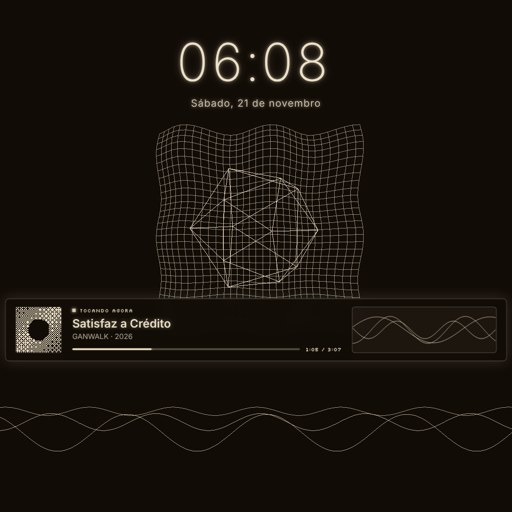
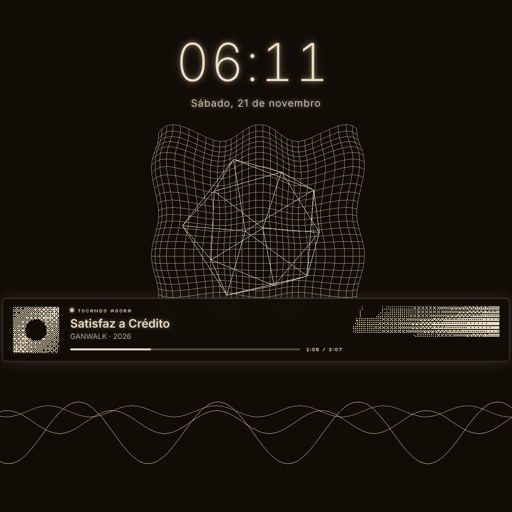
Troca as ondas do reprodutor por barras de espectro em dither
Claude-Session: https://claude.ai/code/session_01TWsJcmT3pL997o7ygjqKUk

diff --git a/wallpaper-exp1/index.html b/wallpaper-exp1/index.html
@@ -67,7 +67,7 @@
     /* --- TOCANDO AGORA ---
        Mesma linguagem do painel de controles da Exp I no site: fundo
        --control-bg, borda fina, brilho difuso, rótulos em Silkscreen,
-       trilho de 4px e o mini canvas das três ondas. Desenhado a 1920px
+       trilho de 4px e um espectro em barras com dither. Desenhado a 1920px
        de largura e escalado pela tela (--np-scale). */
     @font-face {
         font-family: 'Silkscreen';
@@ -79,7 +79,7 @@
     #now-playing {
         position: absolute; left: 50%; top: 50%; width: 1040px;
         transform: translate(-50%, -50%) scale(calc(var(--np-scale) * var(--np-pulse)));
-        /* Horizontal: capa | informações | as três ondas, numa linha só. */
+        /* Horizontal: capa | informações | barras do espectro no canto superior direito. */
         display: grid; grid-template-columns: 96px 1fr 300px; column-gap: 22px; align-items: center;
         padding: 16px 20px; border-radius: 8px;
         background: var(--control-bg); border: 1px solid var(--border-color);
@@ -113,11 +113,13 @@
     #np-track { flex: 1; height: 4px; border-radius: 2px; background: var(--border-color); position: relative; overflow: hidden; }
     #np-fill { position: absolute; left: 0; top: 0; bottom: 0; width: 0; background: var(--highlight-color); box-shadow: 0 0 6px var(--highlight-color); }
     #np-time { font-family: 'Silkscreen', monospace; font-size: 11px; white-space: nowrap; }
-    #np-mini {
-        height: 96px; border-radius: 6px; overflow: hidden;
-        background: rgba(var(--highlight-rgb), 0.05); border: 1px solid var(--border-color);
+    /* Barras do espectro: soltas no canto superior direito do próprio
+       reprodutor (sem caixa), crescendo da direita para a esquerda. Canvas
+       em meia resolução ampliado sem suavização, para o dither ficar nítido. */
+    #np-bars {
+        width: 300px; height: 64px; align-self: start; justify-self: end; display: block;
+        image-rendering: pixelated; image-rendering: crisp-edges;
     }
-    #np-mini canvas { width: 100%; height: 100%; display: block; }
 
     /* --- RELÓGIO E DATA --- */
     @font-face {
@@ -179,7 +181,7 @@
                 <div id="np-artist"></div>
                 <div id="np-progress"><div id="np-track"><div id="np-fill"></div></div><span id="np-time"></span></div>
             </div>
-            <div id="np-mini"><canvas id="np-mini-canvas"></canvas></div>
+            <canvas id="np-bars" width="150" height="32"></canvas>
         </div>
     </div>
     <canvas id="canvas"></canvas>
@@ -260,6 +262,8 @@ const Wallpaper = {
             const v = Math.min(1.5, (arr[i] + arr[i + 64]) * 0.5);
             if (i < 7) b += v; else if (i < 26) m += v; else h += v;
         }
+        if (!this.spectrum) this.spectrum = new Float32Array(64);
+        for (let i = 0; i < 64; i++) this.spectrum[i] = Math.min(1.5, (arr[i] + arr[i + 64]) * 0.5);
         this.rawBands.b = b / 7;
         this.rawBands.m = m / 19;
         this.rawBands.h = h / 38;
@@ -871,8 +875,10 @@ const DitherWave = {
             ctx.imageSmoothingEnabled = false;
             ctx.drawImage(art, ar.left * sx, ar.top * sx, ar.width * sx, ar.height * sx);
             ctx.imageSmoothingEnabled = true;
-            const mini = document.getElementById('np-mini-canvas'), mr = mini.getBoundingClientRect();
-            ctx.drawImage(mini, mr.left * sx, mr.top * sx, mr.width * sx, mr.height * sx);
+            const bars = document.getElementById('np-bars'), br = bars.getBoundingClientRect();
+            ctx.imageSmoothingEnabled = false;
+            ctx.drawImage(bars, br.left * sx, br.top * sx, br.width * sx, br.height * sx);
+            ctx.imageSmoothingEnabled = true;
             const label = document.getElementById('np-status');
             drawText(label, label.textContent.toUpperCase(), 0.9, 'left');
             for (const id of ['np-title', 'np-artist', 'np-time']) {
@@ -1045,7 +1051,7 @@ const DitherFade = {
  * no controle de mídia do Windows). Enquanto ela toca, a cada pulso de
  * dither o "GANWALK" vira o reprodutor logo antes da onda sair do
  * icosaedro, e volta logo depois que ela passa. O reprodutor tem capa,
- * título, artista, progresso e as três ondas do mini canvas da Exp I.
+ * título, artista, progresso e um espectro em barras com dither.
  * Música nova (ou o começo de uma) também dispara um pulso.
  *
  * Toda troca (texto ↔ reprodutor, música nova, pausa) passa pelo DitherFade.
@@ -1220,7 +1226,7 @@ const NowPlaying = {
         }
 
         this.drawArt();
-        this.drawMini(b, m, h, t, dir);
+        this.drawBars(t);
     },
 
     // Capa com o mesmo motor do portfólio (ditherFrame): recorte object-cover,
@@ -1264,28 +1270,69 @@ const NowPlaying = {
         ctx.putImageData(image, 0, 0);
     },
 
-    // As três ondas do mini canvas da Exp I (App1.drawMiniCanvas no site).
-    drawMini(b, m, h, time, dir) {
-        const mc = document.getElementById('np-mini-canvas');
-        const pw = mc.parentElement.clientWidth, ph = mc.parentElement.clientHeight;
-        if (mc.width !== pw || mc.height !== ph) { mc.width = pw; mc.height = ph; }
-        const ctx = mc.getContext('2d'), w = mc.width, hC = mc.height;
-        const fx = Wallpaper.fx, bg = Wallpaper.bgThree;
-        ctx.clearRect(0, 0, w, hC);
-        ctx.fillStyle = `rgba(${bg.r * 255},${bg.g * 255},${bg.b * 255},${0.02 + 0.98 * Math.pow(1.0 - fx.reverb, 3)})`;
-        const col = '#' + Wallpaper.fgThree.getHexString();
-        const alpha = Math.max(0, ((100 - fx.filter) / 100)) * 0.8;
-        ctx.lineWidth = 1 + fx.overdrive * 2;
-        const vShift = Math.sin(time * 2) * fx.chorus * 10;
-        const draw = (amp, freq, spd, yOff) => {
-            ctx.beginPath(); ctx.strokeStyle = col; ctx.globalAlpha = alpha;
-            for (let x = 0; x < w; x++) {
-                const y = yOff + Math.sin(((x / w - 0.5) * 4) * freq + time * spd * dir) * (amp * 20 * hC / 30) + vShift + (Math.random() - 0.5) * fx.overdrive * 3;
-                if (x === 0) ctx.moveTo(x, y); else ctx.lineTo(x, y);
+    // ESPECTRO EM BARRAS
+    // 8 barras (do grave, em cima, ao agudo, embaixo) que crescem da direita
+    // para a esquerda. O preenchimento é dither ordenado com a matriz de Bayer
+    // do portfólio: cheio junto à borda direita e cada vez mais ralo até a
+    // ponta, com a fase da matriz trocando a cada 175 ms (a cintilação) e uma
+    // leve ondulação na densidade, que faz o retículo "respirar".
+    BAR_EDGES: [0, 2, 4, 7, 11, 17, 26, 38, 64], // faixas das 64 bandas do Wallpaper Engine
+    barLevels: new Float32Array(8),
+    barPeaks: new Float32Array(8).fill(0.05),
+    barHold: new Float32Array(8),
+
+    drawBars(t) {
+        const cvs = document.getElementById('np-bars'), ctx = cvs.getContext('2d');
+        const W = cvs.width, H = cvs.height, N = 8;
+        const rows = H / N, thick = Math.max(1, Math.round(rows * 0.75)); // barra + respiro
+        const spec = Wallpaper.spectrum, sens = Wallpaper.settings.sensitivity;
+        const bands = Wallpaper.bands;
+
+        for (let i = 0; i < N; i++) {
+            let v;
+            if (spec && !Wallpaper.demoMode) {
+                let sum = 0;
+                for (let j = this.BAR_EDGES[i]; j < this.BAR_EDGES[i + 1]; j++) sum += spec[j];
+                v = sum / (this.BAR_EDGES[i + 1] - this.BAR_EDGES[i]);
+                this.barPeaks[i] = Math.max(v, this.barPeaks[i] * 0.996, 0.02);
+                v = Math.sqrt(Math.min(1, v / this.barPeaks[i])) * Math.min(1, v / 0.02);
+            } else {
+                // Sem espectro (navegador): deriva das três bandas.
+                const k = i / (N - 1);
+                v = (k < 0.5 ? bands.b * (1 - 2 * k) + bands.m * 2 * k : bands.m * (2 - 2 * k) + bands.h * (2 * k - 1)) * 1.2;
+                v *= 0.75 + 0.25 * Math.sin(t * 7 + i * 1.7);
             }
-            ctx.stroke(); ctx.globalAlpha = 1;
-        };
-        draw(b, 2.0, 5, hC / 2); draw(m, 3.0, 6, hC / 2); draw(h, 4.0, 7, hC / 2);
+            const target = Math.min(1, v * sens);
+            this.barLevels[i] += (target - this.barLevels[i]) * (target > this.barLevels[i] ? 0.5 : 0.15);
+            // Marcador de pico, que cai devagar.
+            this.barHold[i] = Math.max(this.barLevels[i], this.barHold[i] - 0.006);
+        }
+
+        const img = ctx.createImageData(W, H), d = img.data;
+        const fg = Wallpaper.fgThree, r = fg.r * 255, g = fg.g * 255, b = fg.b * 255;
+        const size = DitherWave.MATRIX_SIZE, mask = size - 1, matrix = DitherWave.buildBayer(size);
+        const levels = size * size;
+        const phase = DitherWave.PHASES[Math.floor(performance.now() / DitherWave.STEP_MS) % DitherWave.PHASES.length];
+        const plot = (x, y) => { const o = (y * W + x) * 4; d[o] = r; d[o + 1] = g; d[o + 2] = b; d[o + 3] = 255; };
+
+        for (let i = 0; i < N; i++) {
+            const len = Math.round(this.barLevels[i] * W);
+            const y0 = Math.round(i * rows);
+            const breathe = 0.85 + 0.15 * Math.sin(t * 6 + i * 0.9);
+            for (let y = y0; y < y0 + thick && y < H; y++) {
+                const row = ((y + phase.y) & mask) * size;
+                for (let dx = 0; dx < len; dx++) {
+                    const x = W - 1 - dx;
+                    // Densidade: 100% na borda direita, ~20% na ponta.
+                    const dens = (1 - 0.8 * (dx / Math.max(1, len))) * breathe;
+                    if (dens * levels > matrix[row + ((x + phase.x) & mask)]) plot(x, y);
+                }
+                // Pico: um traço vertical de 1 célula, meio retícula.
+                const hx = W - 1 - Math.round(this.barHold[i] * W);
+                if (hx >= 0 && hx < W - len && ((hx + y + phase.x) & 1)) plot(hx, y);
+            }
+        }
+        ctx.putImageData(img, 0, 0);
     },
 
     // Fora do Wallpaper Engine não há integração de mídia: uma faixa de

diff --git a/wallpaper-exp1/README.md b/wallpaper-exp1/README.md
@@ -72,8 +72,8 @@ Usa a integração de mídia do Wallpaper Engine, que lê o que aparece no contr
 mídia do Windows (Spotify, Tidal, navegador e outros). Se o reprodutor não aparecer,
 confira se a integração de mídia está ligada nas configurações do Wallpaper Engine.
 
-O visual segue o painel de controles da Exp I, numa faixa horizontal (capa, informações e as três ondas lado a lado): fundo escuro com desfoque, borda
-fina, rótulos em Silkscreen, trilho de progresso e o mini canvas com as três ondas.
+O visual segue o painel de controles da Exp I, numa faixa horizontal (capa e informações, com um espectro em barras no canto superior direito): fundo escuro com desfoque, borda
+fina, rótulos em Silkscreen, trilho de progresso e 8 barras de espectro, do grave ao agudo, que crescem da direita para a esquerda com preenchimento em dither oscilante (a mesma matriz de Bayer, mais densa na borda e rala na ponta).
 A capa do álbum passa pelo mesmo dither do portfólio e cintila a cada 175 ms.
 
 Todas as transições são em dither: o texto, o reprodutor, o relógio e a data entram
